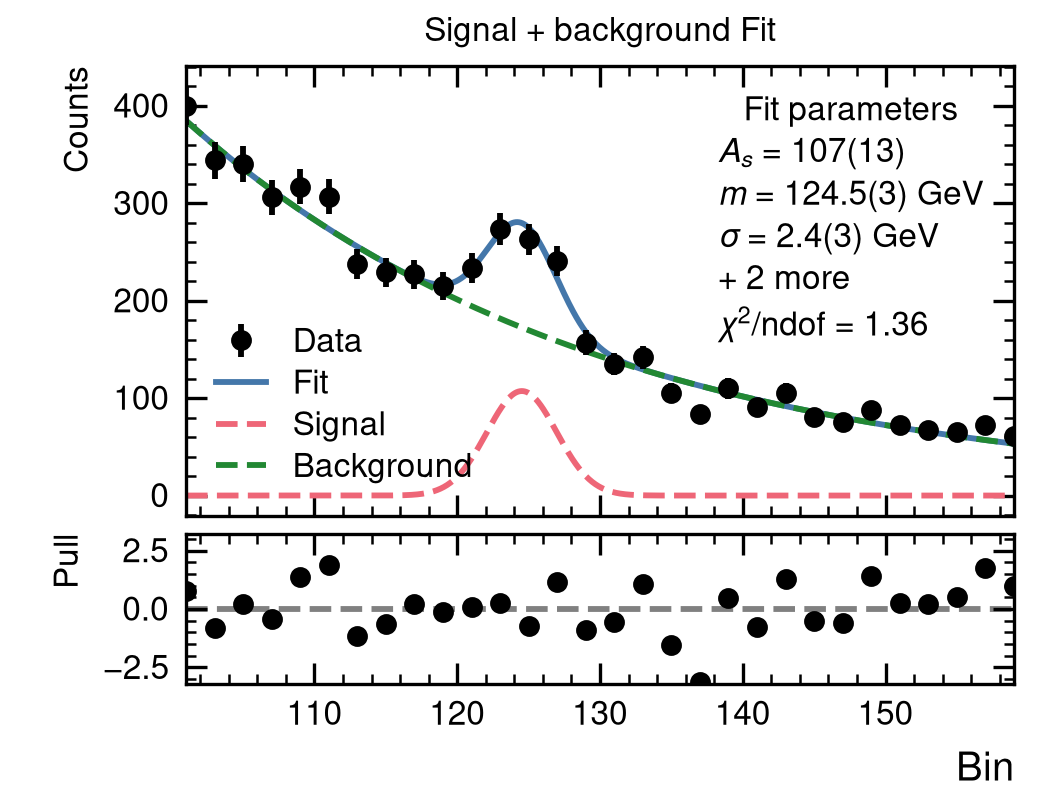
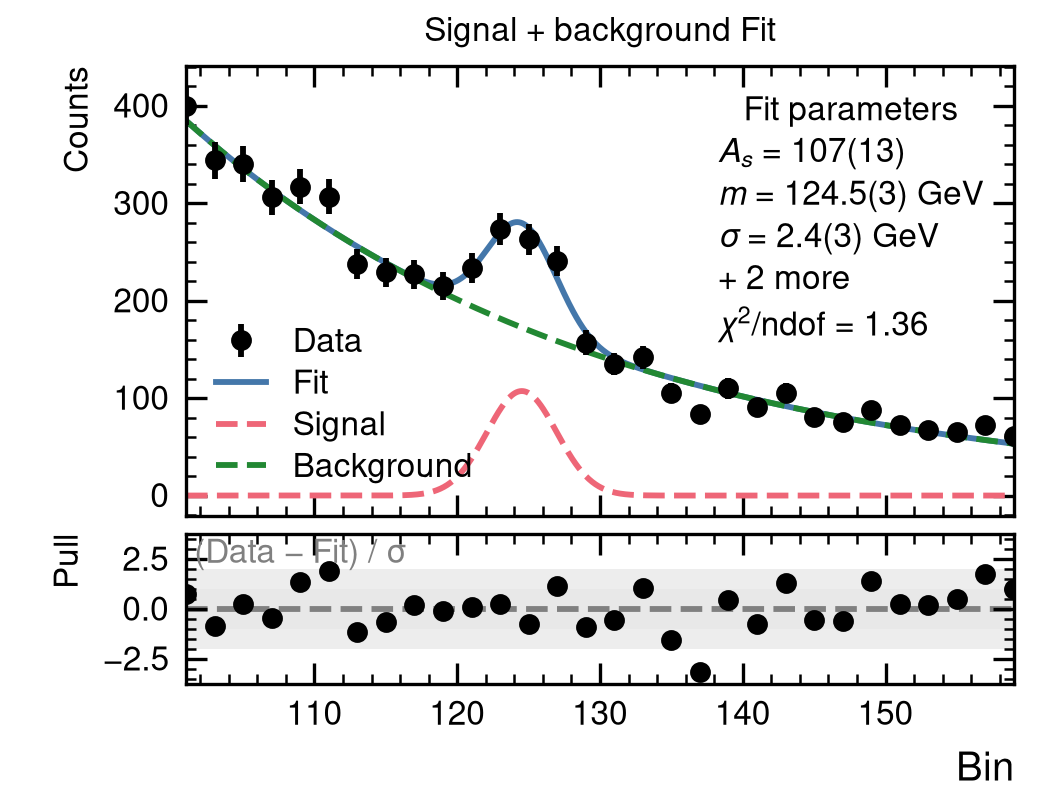
T06: --fit lower panels: residual and pull
Each --lower residual|pull with --fit adds its own panel computed with
lower.model_series. Pulls get a symmetric +-max(3, 1.2 max|pull|) range
and +-1/+-2 sigma bands in the faint role, and warn instead of drawing
when the error column is missing; residuals are masked where the fit is
below 1e-3 of its peak. Labels "Pull"/"Residual" with the formula as an
in-panel subtitle. Re-rendered the 08_fit style sheets and the fit
figures of docs/options.md.

diff --git a/src/plotipus/kinds/_fit.py b/src/plotipus/kinds/_fit.py
@@ -6,9 +6,9 @@ Rows describe a fitted series: ``x``/``y`` arrays plus the model,
 ``ParamsLabel`` and optionally ``ParamsUnit``, ``ParamsFormat``,
 ``FitFunctionFormula``, ``Chi2`` and ``FitComponents`` ({label: [model,
 [parameter indices]]}, each drawn dashed). No fitting happens here: the stored
-model is evaluated, drawn over the data with a parameter box, and the lower
-panel shows the residual (data - fit) / fit, or with ``--lower pull`` the pull
-(data - fit) / error.
+model is evaluated, drawn over the data with a parameter box, and each
+``--lower`` entry adds a panel: ``residual`` (data - fit) / fit, or ``pull``
+(data - fit) / error with the stored ``{y}Error``.
 """
 
 import matplotlib.lines as mlines
@@ -20,7 +20,7 @@ from .. import style
 from ..args import resolve_axis_label
 from ..fits import get_function
 from ..format import _format_value_with_paren_error
-from ..lower import model_series
+from ..lower import MODEL_OPERATIONS, model_series, parse_lower
 from ..palettes import current_colors
 from ..panels import add_title_and_note, create_panels, save
 from ..plot import (apply_legend_pair_clear_of_data, apply_legend_style, apply_legend_style_clear_of_data,
@@ -37,7 +37,7 @@ def add_fit_args(parser):
     add = group.add_argument
     add("--fit", action="store_true", default=False,
         help="Draw the stored fit of each row (FitFunction/FitFunctionLabel, Params) over the data, "
-        "with its parameters; --lower residual shows (data - fit)/fit, --lower pull (data - fit)/error.")
+        "with its parameters; each --lower adds a panel: residual (data - fit)/fit or pull (data - fit)/error.")
     add("--chi2", action="store_true", default=False,
         help="Show chi2/ndof (stored Chi2 column, or Pearson chi2 for -y Counts).")
     add("--show_formula", action="store_true", default=False, help="Show FitFunctionFormula in the legend.")
@@ -161,9 +161,9 @@ def _parameter_legend_kwargs(lines):
                 handletextpad=0)
 
 
-def _draw_fit_rows(ax_top, ax_bottom, rows, args, kind):
-    """Data, fit curve, residuals and parameters of one hue value; returns
-    (residual limit, function label, formula)."""
+def _draw_fit_rows(ax_top, lowers, rows, args, kind):
+    """Data, fit curve, lower panels ((spec, axes) pairs) and parameters of one hue value; returns
+    (lower-panel limits, function label, formula, parameter lines)."""
     label_value = rows[args.iterable].iloc[0] if args.iterable is not None else "Data"
     function_label = rows["FitFunctionLabel"].iloc[0] if "FitFunctionLabel" in rows.columns else None
     formula = rows["FitFunctionFormula"].iloc[0] if "FitFunctionFormula" in rows.columns else None
@@ -210,35 +210,14 @@ def _draw_fit_rows(ax_top, ax_bottom, rows, args, kind):
     mask = np.isfinite(fit) & (fit != 0) & np.isfinite(diff)
     if args.fit_rangex is not None:
         mask &= (x >= lo) & (x <= hi)
-    residuals = np.full_like(diff, np.nan)
-    residual_error = None
-    error_column = f"{args.y}Error"
-    if _pull(args) and error_column in rows.columns:
-        # Pull: (data - fit) / data error, in units of the error.
-        stored = np.asarray(rows[error_column].values[0], dtype=float)
-        mask &= np.isfinite(stored) & (stored > 0)
-        residuals[mask] = diff[mask] / stored[mask]
-        if args.errory:
-            residual_error = np.where(mask, 1.0, np.nan)
-    else:
-        residuals[mask] = diff[mask] / fit[mask]
-        if args.errory and error is not None:
-            residual_error = np.full_like(y, np.nan)
-            residual_error[mask] = error[mask] / fit[mask]
-
-    finite = residuals[mask]
-    if finite.size:
-        low, high = np.percentile(finite, [5, 95])
-        limit = max(abs(low), abs(high)) * 2
-        if limit == 0 or not np.isfinite(limit):
-            limit = 1e-3
-    else:
-        limit = 1
-    if limit > 1e3 or not np.isfinite(limit):
-        limit = len(params)
-
-    if ax_bottom is not None:
-        plot_data(args, ax_bottom, x, y=residuals, errory=residual_error if args.errory else None,
+    limits = []
+    for spec, ax_bottom in lowers:
+        values, errors = _lower_values(spec, x, y, fit, error, rows, args, mask)
+        limit = _lower_limit(spec, values, len(params))
+        limits.append(limit)
+        if values is None:
+            continue
+        plot_data(args, ax_bottom, x, y=values, errory=errors if args.errory else None,
                   color=style.role("ink"), plot_type=plot_type, **style_kwargs)
         ax_bottom.set_ylim(-limit, limit)
 
@@ -251,12 +230,78 @@ def _draw_fit_rows(ax_top, ax_bottom, rows, args, kind):
     lines = _parameter_lines(args, rows, params, chi2, int(mask.sum()))
     if args.fitlegendposition is not None:
         _parameter_box(ax_top, args, lines)
-    return limit, function_label, formula, lines
+    return limits, function_label, formula, lines
 
 
-def _pull(args):
-    """--lower pull: the lower panel shows (data - fit) / error."""
-    return "pull" in (args.lower or [])
+def _lower_specs(args):
+    """One lower panel per --lower entry: residual or pull (anything else, as
+    before, is drawn as a residual)."""
+    specs = []
+    for text in args.lower or []:
+        spec = parse_lower(text)
+        if spec.name not in MODEL_OPERATIONS:
+            rprint(f"[yellow]Warning:[/yellow] --lower {text} is not available with --fit; drawing the residual.")
+            spec = parse_lower("residual")
+        specs.append(spec)
+    return specs
+
+
+def _lower_values(spec, x, y, fit, error, rows, args, mask):
+    """(values, errors) of one lower panel, NaN outside *mask*; values None
+    when a pull has no errors to divide by."""
+    if spec.name == "pull":
+        error_column = f"{args.y}Error"
+        if error_column not in rows.columns:
+            rprint(f"[yellow]Warning:[/yellow] --lower pull needs the {error_column} column; the pull panel is empty.")
+            return None, None
+        sigma = np.asarray(rows[error_column].values[0], dtype=float)
+        values = model_series(y, fit, sigma, "pull")
+        values[~(mask & (sigma > 0))] = np.nan
+        return values, np.where(np.isfinite(values), 1.0, np.nan)
+    # Where the fit is ~0 (the tails of a peak) the relative residual diverges.
+    small = np.abs(fit) < 1e-3 * np.nanmax(np.abs(fit[mask])) if mask.any() else np.zeros_like(mask)
+    values = model_series(y, fit, None, "residual")
+    values[~mask | small] = np.nan
+    errors = None
+    if error is not None:
+        with np.errstate(divide="ignore", invalid="ignore"):
+            errors = np.where(np.isfinite(values), np.asarray(error, dtype=float) / fit, np.nan)
+    return values, errors
+
+
+def _lower_limit(spec, values, n_params):
+    """Symmetric y range of one lower panel."""
+    finite = values[np.isfinite(values)] if values is not None else np.array([])
+    if spec.name == "pull":
+        return max(3.0, 1.2 * float(np.max(np.abs(finite)))) if finite.size else 3.0
+    if not finite.size:
+        return 1
+    low, high = np.percentile(finite, [5, 95])
+    limit = max(abs(low), abs(high)) * 2
+    if limit == 0 or not np.isfinite(limit):
+        limit = 1e-3
+    if limit > 1e3:
+        limit = n_params
+    return limit
+
+
+def _lower_label(spec):
+    """(y label, formula subtitle) of a lower panel. The formula goes inside
+    the panel: as the y label it is taller than a lower panel."""
+    if spec.name == "pull":
+        return "Pull", "(Data − Fit) / σ"
+    return "Residual", "(Data − Fit) / Fit"
+
+
+def _lower_subtitle(ax, text):
+    ax.text(0.01, 0.97, text, transform=ax.transAxes, ha="left", va="top", fontsize="medium",
+            color=style.role("muted"))
+
+
+def _pull_bands(ax):
+    """Light bands at +-1 and +-2 sigma; where they overlap (within 1 sigma) they read darker."""
+    for width in (2, 1):
+        ax.axhspan(-width, width, color=style.role("faint"), alpha=0.7, linewidth=0, zorder=-2)
 
 
 def _residual_reference(ax, args):
@@ -301,12 +346,12 @@ def run_fit(df, args):
     configs, names = prepare_import(args)
     configs = configs if configs is not None else [None]
     names = names if names is not None else [None]
-    lower = not args.no_lower_plot and bool(args.lower)
+    specs = _lower_specs(args) if not args.no_lower_plot else []
     outputs = []
     for kdx, (config, name) in enumerate(zip(configs, names)):
-        fig, upper, lowers, _ = create_panels(1, n_lower=1 if lower else 0)
-        ax_top, ax_bottom = upper[0], (lowers[0][0] if lower else None)
-        if ax_bottom is not None:
+        fig, upper, lowers, _ = create_panels(1, n_lower=len(specs))
+        ax_top, ax_bottoms = upper[0], lowers[0]
+        if ax_bottoms:
             ax_top.xaxis.get_offset_text().set_visible(False)
         mask = pd.Series(True, index=df.index)
         if "Config" in df.columns:
@@ -315,7 +360,7 @@ def run_fit(df, args):
             mask &= df["Name"] == name
         group = df[mask]
         hues = group[args.iterable].unique() if args.iterable is not None else [None]
-        limit, function_label, formula, subset, parameter_lines = 1, None, None, group, None
+        limits, function_label, formula, subset, parameter_lines = None, None, None, group, None
         for jdx, hue in enumerate(hues):
             if args.reduce and args.iterable is not None and len(hues) > 8 and jdx % 2 == 1:
                 continue
@@ -324,12 +369,12 @@ def run_fit(df, args):
             if rows.empty:
                 continue
             subset = rows
-            result = _draw_fit_rows(ax_top, ax_bottom, rows, args, {"draw_fit": jdx == args.fitindex})
+            result = _draw_fit_rows(ax_top, list(zip(specs, ax_bottoms)), rows, args, {"draw_fit": jdx == args.fitindex})
             function_label, formula = result[1], result[2]
             if result[3] is not None:
                 parameter_lines = result[3]
             if result[0] is not None:
-                limit = result[0]
+                limits = result[0]
 
         if function_label is None:
             rprint("[yellow]Warning:[/yellow] No valid fit entries available to plot.")
@@ -376,19 +421,23 @@ def run_fit(df, args):
             _show_formula(fig, ax_top, legend, formula)
 
         xlabel = resolve_axis_label(_first(args.labelx), args.x, subset)
-        if ax_bottom is not None:
+        for spec, ax_bottom, limit in zip(specs, ax_bottoms, limits or [None] * len(specs)):
             if args.rangex is not None:
                 ax_bottom.set_xlim(args.rangex)
             _residual_reference(ax_bottom, args)
-            ax_bottom.set_xlabel(xlabel, fontsize=style.xlabelfontsize)
             if args.logx:
                 ax_bottom.set_xscale("log")
-            ax_bottom.set_ylim(-limit, limit)
-            ax_bottom.set_ylabel(args.lower_labely if args.lower_labely is not None
-                                 else "Pull" if _pull(args) else "(Data - Fit)/Fit",
-                                 fontsize=style.ysublabelfontsize)
-        else:
-            ax_top.set_xlabel(xlabel, fontsize=style.xlabelfontsize)
+            if spec.name == "pull":
+                _pull_bands(ax_bottom)
+            if limit is not None:
+                ax_bottom.set_ylim(-limit, limit)
+            label, subtitle = _lower_label(spec)
+            if args.lower_labely is not None:
+                label = args.lower_labely
+            else:
+                _lower_subtitle(ax_bottom, subtitle)
+            ax_bottom.set_ylabel(label, fontsize=style.ysublabelfontsize)
+        (ax_bottoms[-1] if ax_bottoms else ax_top).set_xlabel(xlabel, fontsize=style.xlabelfontsize)
 
         vertical, horizontal = args.vertical, args.horizontal
         vertical_labels = args.vertical_label
@@ -399,7 +448,7 @@ def run_fit(df, args):
             horizontal_labels = [format_ref_value(v) for v in horizontal] if args.line_labels and horizontal else []
         draw_vertical_lines(ax_top, vertical, labels=vertical_labels, styles=args.vertical_style,
                             colors=args.vertical_color, fontsize=style.linelabelfontsize)
-        if ax_bottom is not None:
+        for ax_bottom in ax_bottoms:
             draw_vertical_lines(ax_bottom, vertical, labels=[], fontsize=style.linelabelfontsize)
         draw_horizontal_lines(ax_top, horizontal, labels=horizontal_labels, styles=args.horizontal_style,
                               colors=args.horizontal_color, fontsize=style.linelabelfontsize)

diff --git a/tests/test_line_fit.py b/tests/test_line_fit.py
@@ -41,6 +41,53 @@ def test_fit_with_pull(make_project):
     assert lower.get_ylabel() == "Pull"
     assert np.allclose(lower.lines[0].get_ydata(), expected)
 
+def _capture():
+    from plotipus import registry
+
+    figures = []
+    registry.add_figure_hook(lambda fig, args: figures.append(fig))
+    return figures
+
+
+def test_fit_residual_and_pull_panels(make_project):
+    """Two --lower entries give two lower panels, each with its own label and range."""
+    figures = _capture()
+    make_project({"Fits": _fit_frame()})
+    line.main(["--datafile", "Fits", "-x", "Values", "-y", "Counts", "--fit", "--errory",
+               "--lower", "residual", "--lower", "pull"])
+    _, residual, pull = figures[-1].axes
+    # (a style may append the axis offset, e.g. "Residual (x10^-2)")
+    assert residual.get_ylabel().startswith("Residual") and pull.get_ylabel().startswith("Pull")
+    assert [t.get_text() for t in residual.texts] == ["(Data \u2212 Fit) / Fit"]
+    values = pull.lines[0].get_ydata()
+    limit = max(3.0, 1.2 * np.nanmax(np.abs(values)))
+    assert np.allclose(pull.get_ylim(), (-limit, limit))
+    assert sorted(round(abs(p.get_y()), 6) for p in pull.patches) == [1, 2]  # the +-1 and +-2 bands
+    assert any(t.get_text() == "(Data \u2212 Fit) / \u03c3" for t in pull.texts)
+
+
+def test_fit_residual_masks_the_tails(make_project):
+    """Bins where the fit is below 1e-3 of its maximum are not drawn as residuals."""
+    figures = _capture()
+    make_project({"Fits": _fit_frame()})
+    line.main(["--datafile", "Fits", "-x", "Values", "-y", "Counts", "--fit", "--lower", "residual"])
+    frame = _fit_frame().iloc[0]
+    a, mu, sigma = frame["Params"]
+    fit = a * np.exp(-0.5 * ((frame["Values"] - mu) / sigma) ** 2)
+    drawn = figures[-1].axes[1].lines[0].get_ydata()
+    tails = fit < 1e-3 * fit.max()
+    assert tails.any() and np.isnan(drawn[tails]).all()
+    assert np.allclose(drawn[~tails], ((frame["Counts"] - fit) / fit)[~tails])
+
+
+def test_fit_pull_without_errors_warns_and_draws_nothing(make_project, capsys):
+    figures = _capture()
+    make_project({"Fits": _fit_frame().drop(columns="CountsError")})
+    line.main(["--datafile", "Fits", "-x", "Values", "-y", "Counts", "--fit", "--lower", "pull"])
+    assert not figures[-1].axes[1].collections and len(figures[-1].axes[1].lines) == 1  # only the zero line
+    assert "--lower pull needs the CountsError column" in " ".join(capsys.readouterr().out.split())
+
+
 def test_fit_without_lower(make_project):
     out = make_project({"Fits": _fit_frame()})
     outputs = line.main(["--datafile", "Fits", "-x", "Values", "-y", "Counts", "--fit", "--no-fit_errors",

diff --git a/docs/design/catalogue.md b/docs/design/catalogue.md
@@ -36,7 +36,7 @@ command lists.
 |---|---|---|---|
 | A Distributions | 5 | 2 | 5 |
 | B Relationships | 6 | 1 | 2 |
-| C Trends and fits | 4 | 4 | 2 |
+| C Trends and fits | 5 | 3 | 2 |
 | D Comparisons | 1 | 4 | 4 |
 | E Ratios and significance | 4 | 3 | 1 |
 | F ML diagnostics | 4 | 2 | 1 |
@@ -44,7 +44,7 @@ command lists.
 | H Small multiples and layout | 2 | 2 | 4 |
 | I Annotations | 5 | 2 | 3 |
 | J Tables | 4 | 1 | 2 |
-| **Total (89)** | **37** | **24** | **28** |
+| **Total (89)** | **38** | **23** | **28** |
 
 Nearly half of the ◐ entries are partial only because of a bug in
 [bugs.md](bugs.md), not because an option is missing. Fixing B01–B13 moves
@@ -90,8 +90,8 @@ about 12 of them to ✅.
 | C1 | Lines, colour by hue, style by a second variable | several series vs x | F11, F13 | ✅ | `line ... --hue Sample --style Stage` (example 1). Past the palette, colours repeat with a warning (B02, fixed in T01); `--palette` picks the palette. | — |
 | C2 | Line with uncertainty band | curve ± σ | F14, F15 | ✅ | `line --errory --plot_type line` (bands are the default for lines and steps), or `--errory_type bands` with any plot type (P09; B11, fixed in T07). | — |
 | C3 | Stored fit over data with parameter box | publish a fit result | F06, F08, F19 | ✅ | `line --datafile Fit -x X -y Counts --fit --plot_type errorbar --errory` (P04). Fit line in the style's `ink` role (`--fit_color`, T11). | — |
-| C4 | Fit with residual panel | fit quality | F01, F06, F07, F09 | ✅ | `... --fit --lower residual` (P04): (data−fit)/fit. This diverges in the tails (B13). | — |
-| C5 | Fit with pull panel | fit quality in σ | F01, F17 | ◐ | `--fit --lower pull` is accepted but draws the residual (B13). Without `--fit`, `--lower pull` works against stored models. | Fix B13. |
+| C4 | Fit with residual panel | fit quality | F01, F06, F07, F09 | ✅ | `... --fit --lower residual` (P04): (data−fit)/fit, masked where the fit is below 1e-3 of its peak (B13, fixed in T06). | — |
+| C5 | Fit with pull panel | fit quality in σ | F01, F17 | ✅ | `... --fit --lower pull` (P05): (data−fit)/σ with ±1σ/±2σ bands; `--lower residual --lower pull` stacks both (B13, fixed in T06). | — |
 | C6 | Several model curves over data | model comparison | F09, F12, F17 | ◐ | Model curves stored as extra hue rows (`--hue Model`), data as error bars; no per-series plot type (points for data, lines for models). | `--series_type VALUE=errorbar` (per-hue plot type). |
 | C7 | Stacked area | composition over x | F23 | ✗ | `--stacked` only stacks bars (B10). | Covered by the B10 fix (`--stacked --plot_type line` → `fill_between`). |
 | C8 | Time series with dates | monitoring, Keeling curve | F13 | ◐ | Works on numeric x (decimal year); no date axis formatting. | Convert datetime64 x and use `ConciseDateFormatter`. |

diff --git a/docs/design/bugs.md b/docs/design/bugs.md
@@ -366,6 +366,16 @@ although `pull` was requested.
 - Default to `pull` for count data.
 - Use the data colour (or ink) for the fit and residuals.
 
+**Fixed in T06.** With `--fit`, each `--lower residual|pull` adds its own
+panel, computed with `lower.model_series`. Pull: (data − fit) / σ from the
+stored `{y}Error`, range ±max(3, 1.2·max|pull|), ±1σ/±2σ bands in the `faint`
+role; without the error column a warning and an empty panel. Residual:
+bins where |fit| < 1e-3 of its maximum are masked. The y labels are "Pull"
+and "Residual", with the formula as a subtitle inside the panel
+(`--lower_labely` replaces both). Other `--lower` operations with `--fit`
+warn and draw the residual, as before. Restore option: `--lower_labely` for
+the old label; none for the rest (bugs).
+
 ## B14 Hard-coded colours ignore the style
 
 **Reproduce:** render any `--style` plot with the slides/dark overlay

diff --git a/docs/options.md b/docs/options.md
@@ -143,7 +143,8 @@ derived from (or stored in) the same DataFrame. Each `--lower` adds one:
 --lower ratio                 # every series / the reference series (--reference, --reference_value)
 --lower relative_difference   # also subtract, asymmetry, excess, excess_probability, sum, mean, rms
 --lower group --reference_group S --other_group B1 B2 --group_significance   # S/sqrt(B)
---lower residual              # (data - fit) / fit of the stored fit (with --fit); --lower pull: / error
+--lower residual              # (data - fit) / fit of the stored model (with --fit: masked where fit < 1e-3 of its peak)
+--lower pull                  # (data - fit) / error, at least +-3 with +-1 and +-2 bands (with --fit)
 --lower column:Significance   # a series stored in the pickle (with SignificanceError)
 --lower events:OpHit          # event markers read from OpHit* columns
 ```
